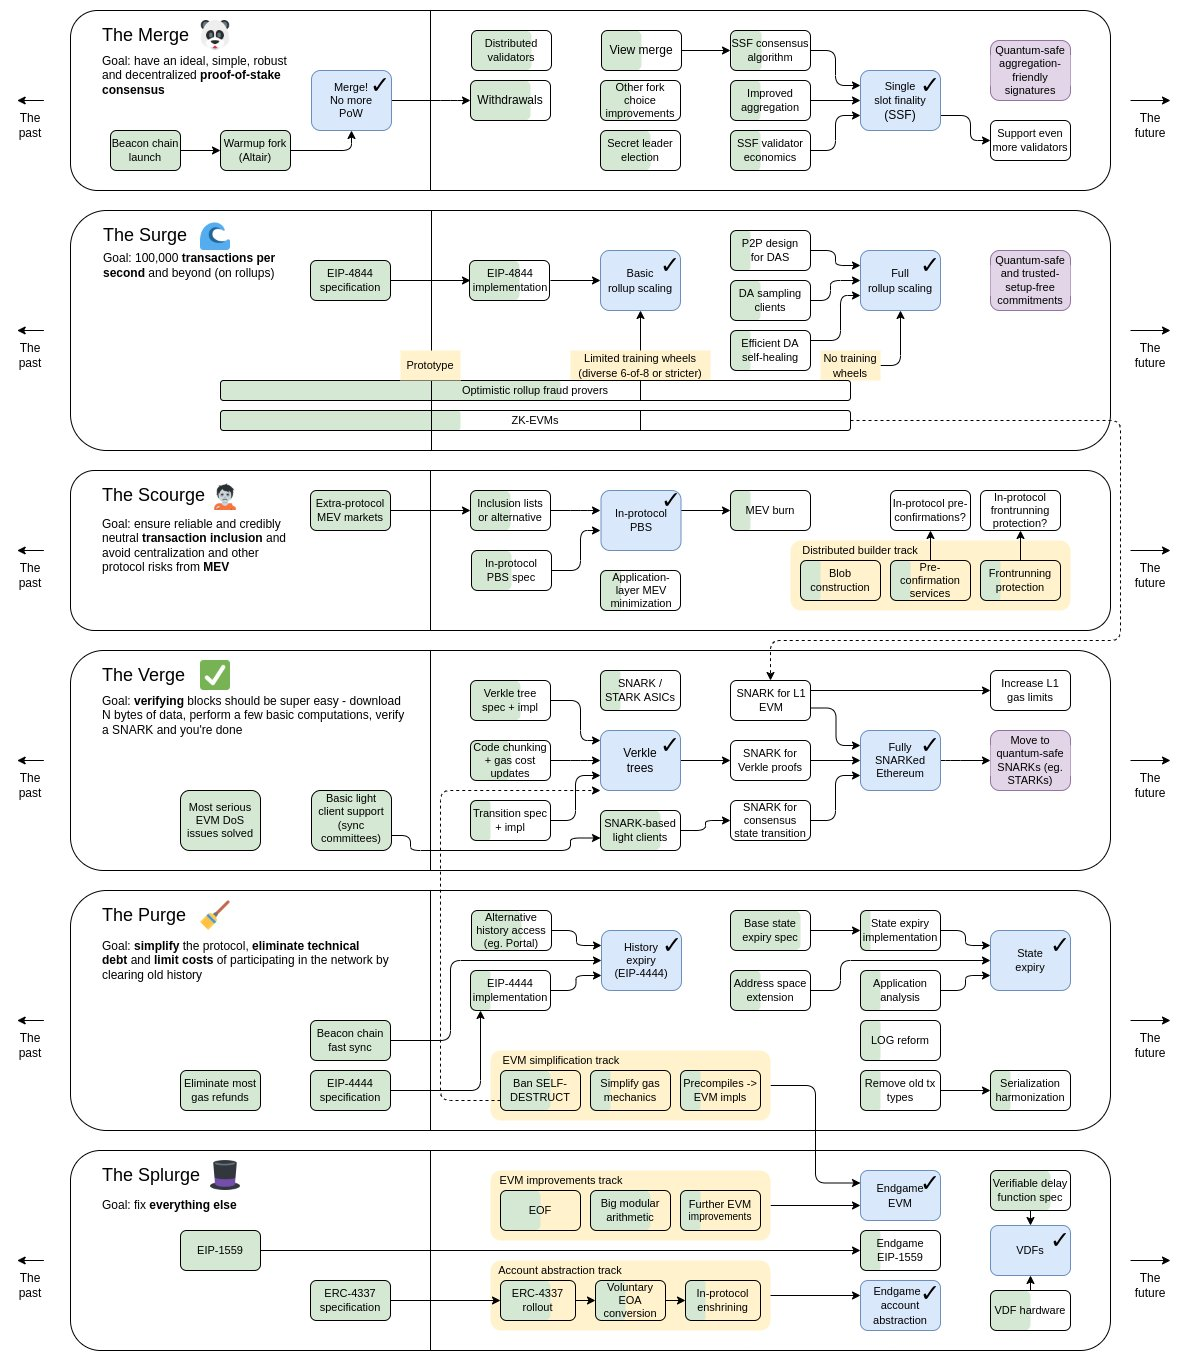
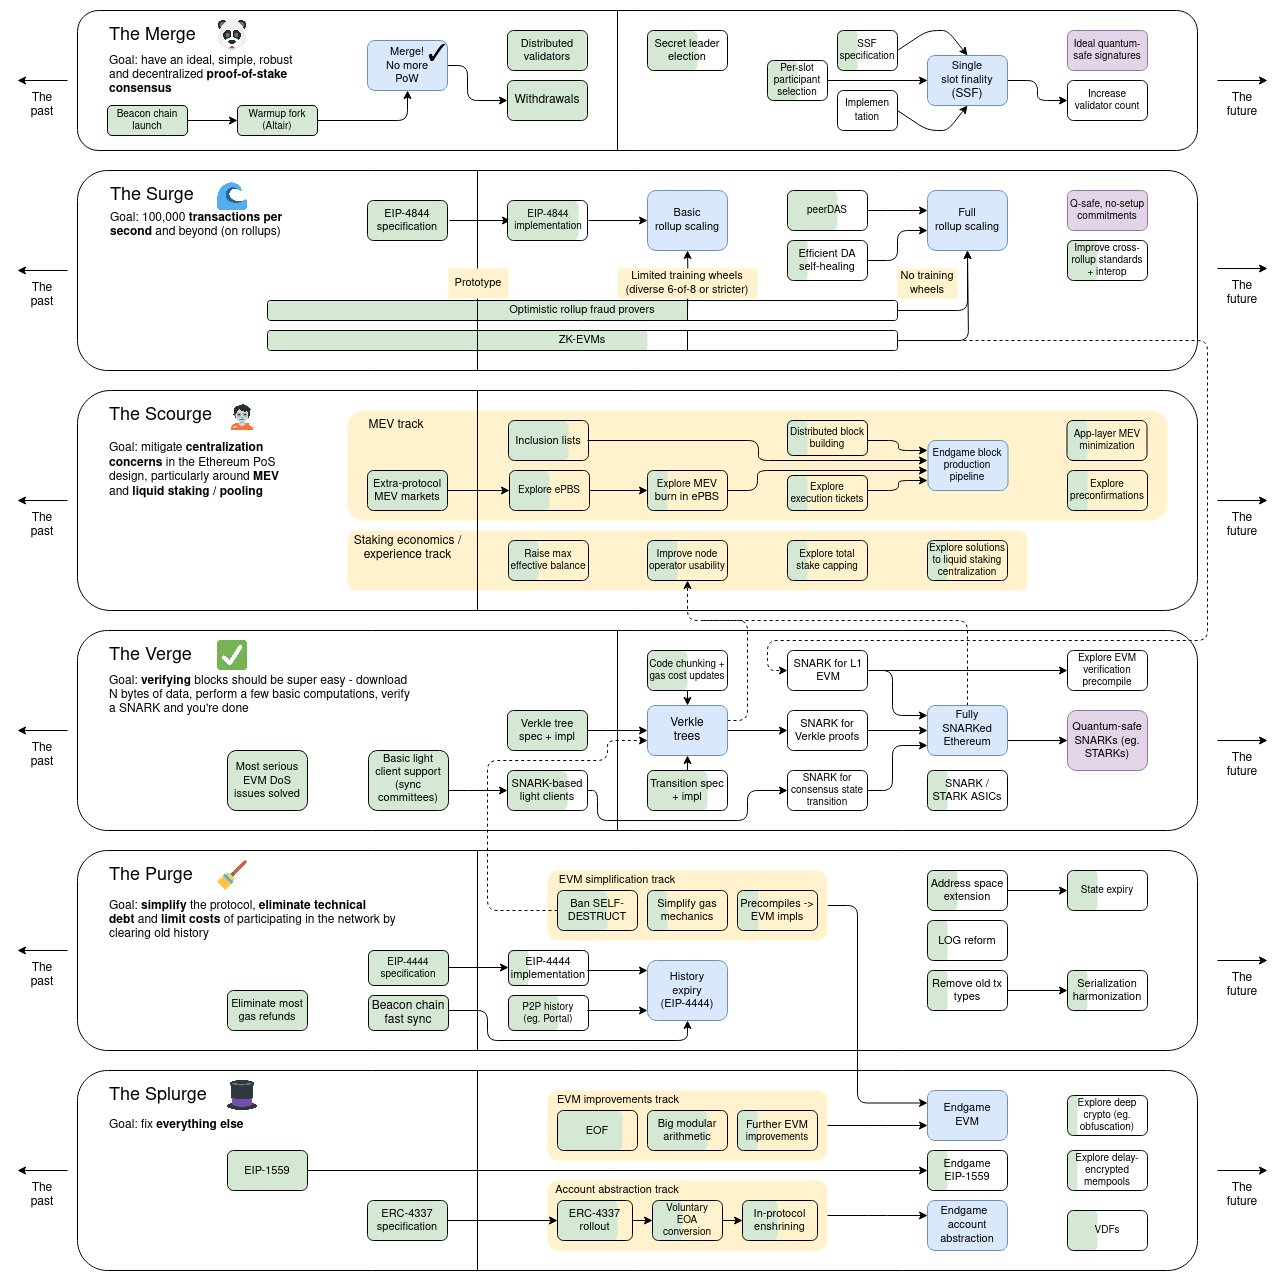
new vitalik roadmap and add consensus timeline part 2

diff --git a/Ethereum-Roadmap/Website/merge.html b/Ethereum-Roadmap/Website/merge.html
@@ -12,74 +12,115 @@
     <div class="header-container">
         <a href="index.html" class="back-arrow">←</a>
     </div>
-    <h1 class="main-title">The Merge</h1>
-
-    <div class="milestones-section">
-        
-        <!-- Transition to PoS Section -->
-        <div class="section" onclick="openModal('modal-pos')">
-            <h2 class="upgrade-title">Transition to PoS</h2>
-			<i class="fas fa-check checkmark"></i>        
+    <h1 class="main-title" style="font-weight: 100;">The Merge</h1>
+        <!-- Launch the Beacon Chain -->
+        <div class="section" onclick="openModal('modal-beacon')">
+            <h2 class="upgrade-title" style="font-weight: 100;">Launch the Beacon Chain</h2>
+			 <i class="fas fa-check checkmark"></i>     
         </div>
-        <!-- Modal for Transition to PoS -->
-        <div id="modal-pos" class="modal">
-            <div class="modal-content">
-                <span class="close" onclick="closeModal('modal-pos')">&times;</span>
-                <ul>
-                    <li>Ethereum's merge and transition to a Proof of Stake system was successfully completed on September 15, 2022.</li>
-                    <!-- Additional points can be added here if needed -->
+        <!-- Modal for Beacon Chain -->
+        <div id="modal-beacon" class="modal">
+            <div class="modal-content" style="background: #595959;  color: #fff; font-family: 'Helvetica Neue', Arial, sans-serif; border-radius: 5px; border: 1px solid transparent;">
+                <span class="close" onclick="closeModal('modal-beacon')">&times;</span>
+                <h3 style="font-family: 'Open Sans', sans-serif;"> Summary </h3>
+                <p style="font-family: 'Open Sans', sans-serif; "> TBD
+                <h3 style="font-family: 'Open Sans', sans-serif;"> Resources </h3>
+                <ul style="font-family: 'Open Sans', sans-serif;">
+                	<a href="hold" style="color: #fff;" target="_blank"><li>TBD</li></a>
                 </ul>
             </div>
         </div>
 
-        <!-- SSF Section -->
+        <!-- Merge Section -->
+        <div class="section" onclick="openModal('modal-merge')">
+            <h2 class="upgrade-title" style="font-weight: 100;">'Merge' Execution and Consensus Layers</h2>
+			 <i class="fas fa-check checkmark"></i>     
+        </div>
+        <!-- Modal for Merge -->
+        <div id="modal-merge" class="modal">
+            <div class="modal-content" style="background: #595959;  color: #fff; font-family: 'Helvetica Neue', Arial, sans-serif; border-radius: 5px; border: 1px solid transparent;">
+                <span class="close" onclick="closeModal('modal-merge')">&times;</span>
+                <h3 style="font-family: 'Open Sans', sans-serif;"> Summary </h3>
+                <p style="font-family: 'Open Sans', sans-serif; "> TBD
+                <h3 style="font-family: 'Open Sans', sans-serif;"> Resources </h3>
+                <ul style="font-family: 'Open Sans', sans-serif;">
+                	<a href="hold" style="color: #fff;" target="_blank"><li>TBD</li></a>
+                </ul>
+            </div>
+        </div>
+                <!-- Withdrawals Section -->
+        <div class="section" onclick="openModal('modal-with')">
+            <h2 class="upgrade-title" style="font-weight: 100;">Enable Withdrawals</h2>
+			 <i class="fas fa-check checkmark"></i>     
+        </div>
+        <!-- Modal for Merge -->
+        <div id="modal-with" class="modal">
+            <div class="modal-content" style="background: #595959;  color: #fff; font-family: 'Helvetica Neue', Arial, sans-serif; border-radius: 5px; border: 1px solid transparent;">
+                <span class="close" onclick="closeModal('modal-with')">&times;</span>
+                <h3 style="font-family: 'Open Sans', sans-serif;"> Summary </h3>
+                <p style="font-family: 'Open Sans', sans-serif; "> TBD
+                <h3 style="font-family: 'Open Sans', sans-serif;"> Resources </h3>
+                <ul style="font-family: 'Open Sans', sans-serif;">
+                	<a href="hold" style="color: #fff;" target="_blank"><li>TBD</li></a>
+                </ul>
+            </div>
+        </div>
+                    <!-- SSF Section -->
         <div class="section" onclick="openModal('modal-ssf')">
-            <h2 class="upgrade-title">SSF</h2>
+            <h2 class="upgrade-title" style="font-weight: 100;">Single Slot Finality</h2>
 			<i class="fas fa-times x-mark"></i>
         </div>
         <!-- Modal for SSF -->
         <div id="modal-ssf" class="modal">
-            <div class="modal-content">
+            <div class="modal-content" style="background: #595959;  color: #fff; font-family: 'Helvetica Neue', Arial, sans-serif; border-radius: 5px; border: 1px solid transparent;">
                 <span class="close" onclick="closeModal('modal-ssf')">&times;</span>
-                <ul>
-                    <li>Single Slot Finality will allow transactions to be finalized within a single 12-second slot.</li>
-                    <!-- Additional points can be added here if needed -->
+                <h3 style="font-family: 'Open Sans', sans-serif;"> Summary </h3>
+                <p style="font-family: 'Open Sans', sans-serif; "> TBD
+                <h3 style="font-family: 'Open Sans', sans-serif;"> Resources </h3>
+                <ul style="font-family: 'Open Sans', sans-serif;">
+                	<a href="hold" style="color: #fff;" target="_blank"><li>TBD</li></a>
                 </ul>
             </div>
         </div>
+                            <!-- More Validators Section -->
+        <div class="section" onclick="openModal('modal-more')">
+            <h2 class="upgrade-title" style="font-weight: 100;">Enable More Validators</h2>
+			<i class="fas fa-times x-mark"></i>
+        </div>
+        <!-- Modal for More -->
+        <div id="modal-more" class="modal">
+            <div class="modal-content" style="background: #595959;  color: #fff; font-family: 'Helvetica Neue', Arial, sans-serif; border-radius: 5px; border: 1px solid transparent;">
+                <span class="close" onclick="closeModal('modal-more')">&times;</span>
+                <h3 style="font-family: 'Open Sans', sans-serif;"> Summary </h3>
+                <p style="font-family: 'Open Sans', sans-serif; "> TBD
+                <h3 style="font-family: 'Open Sans', sans-serif;"> Resources </h3>
+                <ul style="font-family: 'Open Sans', sans-serif;">
+                	<a href="hold" style="color: #fff;" target="_blank"><li>TBD</li></a>
+                </ul>
+            </div>
+        </div>
+                                    <!-- Quant Section -->
+        <div class="section" onclick="openModal('modal-more')">
+            <h2 class="upgrade-title" style="font-weight: 100;">Quantum Safe / Signature Aggregation</h2>
+			<i class="fas fa-times x-mark"></i>
+        </div>
+         <!-- Modal for Quantum -->
+        <div id="modal-quant" class="modal">
+            <div class="modal-quant" style="background: #595959;  color: #fff; font-family: 'Helvetica Neue', Arial, sans-serif; border-radius: 5px; border: 1px solid transparent;">
+                <span class="close" onclick="closeModal('modal-quant')">&times;</span>
+                <h3 style="font-family: 'Open Sans', sans-serif;"> Summary </h3>
+                <p style="font-family: 'Open Sans', sans-serif; "> TBD
+                <h3 style="font-family: 'Open Sans', sans-serif;"> Resources </h3>
+                <ul style="font-family: 'Open Sans', sans-serif;">
+                	<a href="hold" style="color: #fff;" target="_blank"><li>TBD</li></a>
+                </ul>
+            </div>
+        </div>
+        
+        
+  <p class="intro-text" style="max-width: 800px;"> lorem ipsum kuha</p>
 
-        <!-- Enable More Validators Section -->
-        <div class="section" onclick="openModal('modal-validators')">
-            <h2 class="upgrade-title">Enable More Validators</h2>
-            <i class="fas fa-times x-mark"></i>
-        </div>
-        <!-- Modal for Enable More Validators -->
-        <div id="modal-validators" class="modal">
-            <div class="modal-content">
-                <span class="close" onclick="closeModal('modal-validators')">&times;</span>
-                <ul>
-                    <li>Increase the amount of validators that may be supported by the network, or increase MAX_EFFECTIVE_BALANCE</li>
-                    <!-- Additional points can be added here if needed -->
-                </ul>
-            </div>
-        </div>
-
-        <!-- Quantum Safe Section -->
-        <div class="section" onclick="openModal('modal-quantum')">
-            <h2 class="upgrade-title">Quantum Safe</h2>
-            <i class="fas fa-times x-mark"></i>
-        </div>
-        <!-- Modal for Quantum Safe -->
-        <div id="modal-quantum" class="modal">
-            <div class="modal-content">
-                <span class="close" onclick="closeModal('modal-quantum')">&times;</span>
-                <ul>
-                    <li>Quantum safe and aggregation friendly signatures</li>
-                    <!-- Additional points can be added here if needed -->
-                </ul>
-            </div>
-        </div>
-    </div>
+    
 </div>
 <footer class="footer">
   <div style="font-size: 0.6em;" class="footer-box">

diff --git a/Ethereum-Roadmap/Website/index.html b/Ethereum-Roadmap/Website/index.html
@@ -11,7 +11,7 @@
 <body>
 <div class="container">
   <h1 style="font-weight: 100;">Ethereum Roadmap</h1>
-    <p class="intro-text" style="font-weight: 100;">
+    <p class="intro-text" style="font-weight: 100; max-width: 800px;">
 Ethereum has a rough roadmap, most recently articulated by Vitalik, and shown immediately below. 
 The following dashboard aspires to be a dynamic, crowd sourced depiction of the community’s interpretation and execution of this and other idealistic end states of Ethereum.
 </p>
@@ -121,7 +121,52 @@ The following dashboard aspires to be a dynamic, crowd sourced depiction of the 
     <li style="pointer-events: none;" class="arrow"><i class="fas fa-arrow-right"></i></li>
     <li style="background-color: #F1A196;">(F) unknown</li>
   </ul>
-</div><br>
+  <!-- New Detailed Consensus Layer Timeline -->
+  <div class="detailed-timeline">
+    <div class="timeline-event">
+      <div class="timeline-date">Dec 1, 2020</div>
+      <div class="timeline-content">
+        <h3>Launch of the Beacon Chain</h3>
+        <p>This marked the beginning of Ethereum's transition to a proof-of-stake consensus mechanism.</p>
+      </div>
+    </div>
+    <div class="timeline-event">
+      <div class="timeline-date">Oct 27, 2021</div>
+      <div class="timeline-content">
+        <h3>Altair Upgrade</h3>
+        <p>The first significant upgrade to the Beacon Chain, introducing several improvements.</p>
+      </div>
+    </div>
+    <div class="timeline-event">
+      <div class="timeline-date">Sep 6, 2022</div>
+      <div class="timeline-content">
+        <h3>Bellatrix Upgrade</h3>
+        <p>A preparatory upgrade for the Beacon Chain, setting the stage for the merge.</p>
+      </div>
+    </div>
+    <div class="timeline-event">
+      <div class="timeline-date">Sep 15, 2022</div>
+      <div class="timeline-content">
+        <h3>The Merge</h3>
+        <p>The transition from proof-of-work to proof-of-stake, triggered by reaching the Terminal Total Difficulty.</p>
+      </div>
+    </div>
+    <div class="timeline-event">
+      <div class="timeline-date">Apr 12, 2023</div>
+      <div class="timeline-content">
+        <h3>Capella Upgrade</h3>
+        <p>Enabled validator withdrawals from the Beacon Chain, truly completing the transition to PoS.</p>
+      </div>
+    </div>
+    <div class="timeline-event">
+      <div class="timeline-date">Soon</div>
+      <div class="timeline-content">
+        <h3>Deneb</h3>
+        <p>Upcoming upgrade that will help scale Layer 2s through blobs.</p>
+      </div>
+    </div>
+  </div>  
+</div>
 <p >When is the Cancun-Deneb upgrade? Asking Grok to crowdsource an estimate...</p>
    <!-- Countdown container -->
   <div class="countdown-container" >

diff --git a/Ethereum-Roadmap/Website/surge.html b/Ethereum-Roadmap/Website/surge.html
@@ -13,8 +13,6 @@
         <a href="index.html" class="back-arrow">←</a>
     </div>
     <h1 class="main-title" style="font-weight: 100;">The Surge</h1>
-
-    <div class="milestones-section">
         
         <!-- Proto-Danksharding -->
         <div class="section" onclick="openModal('modal-proto')">
@@ -49,16 +47,15 @@
         </div>
         <!-- Modal for Danksharding -->
         <div id="modal-dank" class="modal">
-            <div class="modal-content" style="background: rgba(0, 0, 0, 0.3);  color: #fff;">
-                <span class="close" onclick="closeModal('modal-dank')">&times;</span>
+			<div class="modal-content" style="background: #595959;  color: #fff; font-family: 'Helvetica Neue', Arial, sans-serif; border-radius: 5px; border: 1px solid transparent;">                <span class="close" onclick="closeModal('modal-dank')">&times;</span>
+                 <h3 style="font-family: 'Open Sans', sans-serif;"> Summary </h3>
+                <p style="font-family: 'Open Sans', sans-serif; "> TBD
+                <h3 style="font-family: 'Open Sans', sans-serif;"> Resources </h3>
                 <ul style="font-family: 'Open Sans', sans-serif;">
-                    <li>TBD</li>
-                    <!-- Additional points can be added here if needed -->
+                	<a href="hold" style="color: #fff;" target="_blank"><li>TBD</li></a>
                 </ul>
             </div>
         </div>
-        
-    </div>
     
   <p class="intro-text" style="max-width: 800px;"> Ethereum's sharding roadmap has evolved from an idealistic, to a pragmatic, rollup centric approach. 
    As shown below in the Ideation chart, the Ethereum community original pursued sharding at the execution layer <span style="font-weight: bold;">(Full Sharding)</span>.

diff --git a/Ethereum-Roadmap/Website/styles.css b/Ethereum-Roadmap/Website/styles.css
@@ -91,11 +91,6 @@ ul {
   text-align: center;
 }
 
-.milestones-section {
-  background-color: transparent;
-  padding: 20px 30px 0px 30px; /* reduced bottom padding */
-}
-
 .supplemental-section {
   background-color: transparent;
   padding: 0px 30px 20px 30px; /* reduced top padding */
@@ -143,8 +138,8 @@ a:hover {
 
 .intro-text {
   color: #fff; /* White text for visibility */
-  margin: 0 auto 40px; /* Centered with some margin at the bottom */
-  padding: 0 15%; /* Padding on the sides to focus the text in the center */
+  margin: 0 auto 10px; /* Centered with some margin at the bottom */
+  padding: 0 5%; /* Padding on the sides to focus the text in the center */
   text-align: center; /* Center the text */
   font-size: 1em; /* Slightly larger font size for readability */
 }
@@ -359,6 +354,56 @@ a:hover {
   color: #fff;
 }
 
+/* ... Additional Consensus Layer Timeline Content... */
+
+.detailed-timeline {
+  margin: 20px 0;
+  padding: 0;
+  list-style: none;
+}
+
+.timeline-event {
+  display: grid;
+  grid-template-columns: 150px 1fr;
+  gap: 20px;
+  background: rgba(255, 255, 255, 0.1);
+  margin-bottom: 20px;
+  border-radius: 10px;
+  padding: 10px;
+  align-items: center;
+}
+
+.timeline-date {
+  background-color: #99C66D;
+  color: white;
+  font-size: 1em;
+  text-align: center;
+  border-radius: 5px;
+  padding: 5px 0;
+}
+
+.timeline-content h3 {
+  margin: 0;
+  color: #fff;
+  font-size: 1.2em;
+}
+
+.timeline-content p {
+  margin: 10px 0 0;
+  color: #ddd;
+  font-size: 0.9em;
+}
+
+@media (max-width: 600px) {
+  .timeline-event {
+    grid-template-columns: 1fr;
+    text-align: center;
+  }
+
+  .timeline-date {
+    margin-bottom: 10px;
+  }
+}
 
 
 /* ... footer... */
